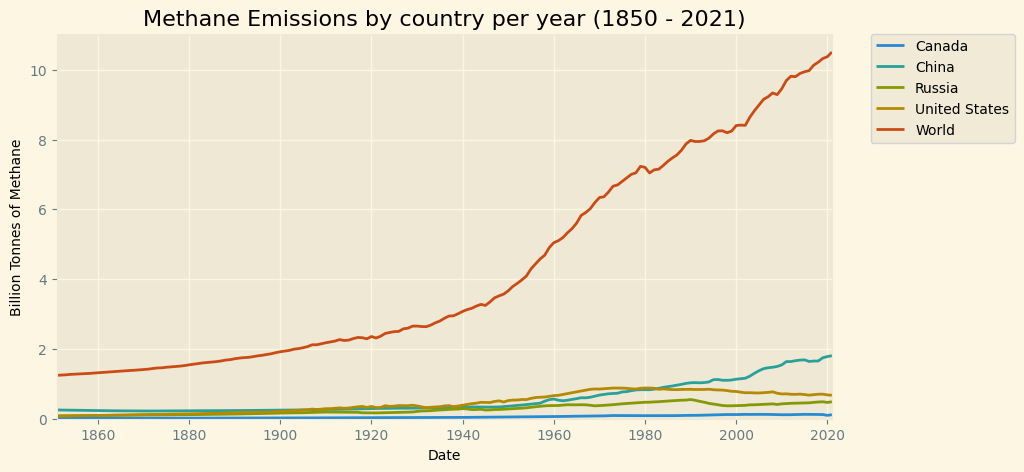
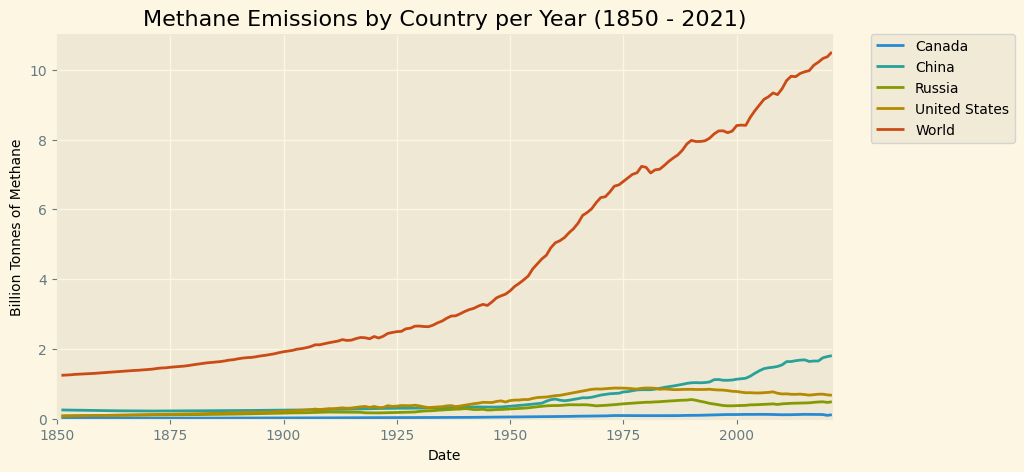
Formatted the graphs for the pngs.

diff --git a/Database/nitrous_emission.py b/Database/nitrous_emission.py
@@ -34,10 +34,12 @@ with plt.style.context('Solarize_Light2'):
       xlabel='Date',
       ylabel='Billion Tonnes of Nitrous Oxide',
       ylim=(0,None),
-      title='''Nitrous oxide emissions by country per year (1850 - 2021)'''
+      title='''Nitrous Oxide Emissions by Country per Year (1850 - 2021)'''
   )
 
   axs.set_xlim(df_nitrous_final['Year'].min(), df_nitrous_final['Year'].max())
+
+  plt.xticks(range(1850, 2021, 25), range(1850, 2021, 25))
 
   plt.legend(bbox_to_anchor=(1.05, 1), loc='upper left', borderaxespad=0, title="")
   #plt.legend(title='')

diff --git a/Database/co2_emission.py b/Database/co2_emission.py
@@ -39,9 +39,11 @@ with plt.style.context('Solarize_Light2'):
         xlabel='Date',
         ylabel='Billion Tonnes of CO₂',
         ylim=(0,None),
-        title='''CO₂ Emissions by country per year (1750 - 2021)'''
+        title='''CO₂ Emissions by Country per Year (1750 - 2021)'''
     )
     axs.set_xlim(df_co2_final['Year'].min(), df_co2_final['Year'].max())
+    
+    plt.xticks(range(1750, 2021, 30), range(1750, 2021, 30))
 
     plt.legend(bbox_to_anchor=(1.05, 1), loc='upper left', borderaxespad=0, title="")
     #plt.legend(title='')

diff --git a/Database/methane_emission.py b/Database/methane_emission.py
@@ -34,10 +34,12 @@ with plt.style.context('Solarize_Light2'):
       xlabel='Date',
       ylabel='Billion Tonnes of Methane',
       ylim=(0,None),
-      title='''Methane Emissions by country per year (1850 - 2021)'''
+      title='''Methane Emissions by Country per Year (1850 - 2021)'''
   )
 
   axs.set_xlim(df_methane_final['Year'].min(), df_methane_final['Year'].max())
+
+  plt.xticks(range(1850, 2021, 25), range(1850, 2021, 25))
 
   plt.legend(bbox_to_anchor=(1.05, 1), loc='upper left', borderaxespad=0, title="")
   #plt.legend(title='')
